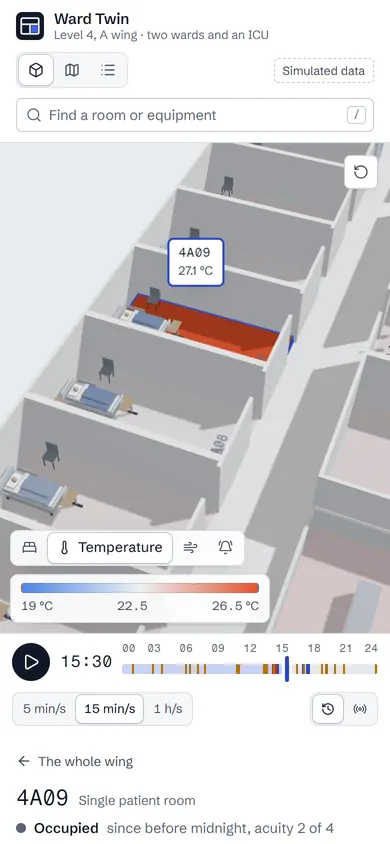
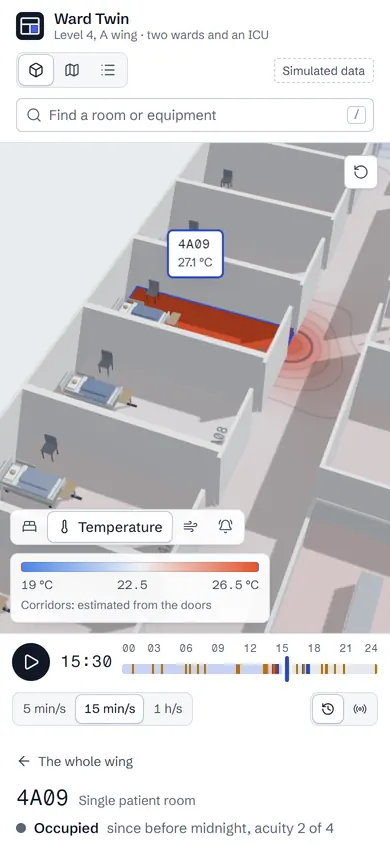
Ward Twin case: the corridor field and the new test counts
- The decision and the performance story say what temperature and air
  now draw: each room its own sensor, and the corridors, which have none,
  estimated in the fragment shader from the doors onto them, at 1 or 2
  fps (ward-twin 86ac619).
- The air tile and the room on a phone are recaptured with the field.
- 51 unit and 14 browser tests; the scene chunk is 215 kB.

diff --git a/index.html b/index.html
@@ -2845,10 +2845,10 @@ clip-path: none !important;
   <dl class="glance"><div><dt>Role</dt><dd>Concept, design and build</dd></div><div><dt>Focus</dt><dd>A 3D model that answers one operational question at a time, and stays fast at the scale of a hospital</dd></div><div><dt>Built with</dt><dd>React Three Fiber, three.js and TypeScript; compressed glTF; the day simulated in a Web Worker; wayfinding on a graph of the building</dd></div><div><dt>Live demo</dt><dd><a href="https://imsemoo.github.io/ward-twin/" target="_blank" rel="noopener">imsemoo.github.io/ward-twin</a></dd></div></dl>
   <figure class="film" data-film data-reveal-ev><div class="film__frame"><video class="film__video" src="img/work/ev/wardtwin-film-720.mp4" poster="img/work/ev/wardtwin-film-still.webp" width="1280" height="720" controls muted playsinline preload="none" aria-label="Ward Twin demo film"></video></div><figcaption class="ev__cap">A 40-second recording of the live demo, captured frame by frame on a fixed clock: the opening shot, the four layers, room 4A09 heating past its limit through the afternoon, the walk to the nearest free pump in the next wing, the whole hospital drawn apart, and level 4 in 3D and as a plan.</figcaption></figure>
   <div class="evidence evidence--p2" style="--phones: 2"><figure class="ev ev--wide" data-reveal-ev><div class="shot "><div class="shot__bar"><span class="shot__cap">imsemoo.github.io/ward-twin/?select=4A09&amp;t=21:00</span></div><img class="shot__img" src="img/work/ev/wardtwin-route-1400.webp" srcset="img/work/ev/wardtwin-route-800.webp 800w, img/work/ev/wardtwin-route-1400.webp 1400w" sizes="(min-width: 900px) 58vw, 94vw" width="1400" height="875" alt="Level 4 in 3D with a dashed blue line from room 4A09 along the corridor and across a glazed link to a pump in the next wing, tagged 1 min away, beside the room&#x27;s panel." loading="lazy" decoding="async"></div><figcaption class="ev__cap">At 21:00 no pump is free in 4A09&#x27;s own wing. The nearest is in the next one, and the walk is drawn down the corridor and across the glazed link: 87 m, about a minute.</figcaption></figure><figure class="ev ev--phone" data-reveal-ev><div class="phone"><img src="img/work/ev/wardtwin-home-phone-600.webp" srcset="img/work/ev/wardtwin-home-phone-390.webp 390w, img/work/ev/wardtwin-home-phone-600.webp 600w" sizes="(min-width: 900px) 15vw, 44vw" width="600" height="1298" alt="Wing 4A on a phone, turned lengthwise, above the layer switch, its key and the timeline." loading="lazy" decoding="async"></div><figcaption class="ev__cap">At phone width a wing turns lengthwise to fit the screen, above the layer key and the timeline.</figcaption></figure><figure class="ev ev--phone" data-reveal-ev><div class="phone"><img src="img/work/ev/wardtwin-room-phone-600.webp" srcset="img/work/ev/wardtwin-room-phone-390.webp 390w, img/work/ev/wardtwin-room-phone-600.webp 600w" sizes="(min-width: 900px) 15vw, 44vw" width="600" height="1298" alt="Room 4A09 close up on a phone, its floor red in the temperature layer, with a tag reading its temperature." loading="lazy" decoding="async"></div><figcaption class="ev__cap">Room 4A09 at 15:30, in the temperature layer. The camera flew to it from a link that names the room, the layer and the time.</figcaption></figure></div>
-  <p class="decision"><strong class="decision__lead">The decision.</strong> The floors carry the data, one question at a time. A layer colours every room, in one wing or across all six levels, by bed state, temperature, air or call-light wait, with its key beside it, on a white model that never competes with the colour. Picking a room flies the camera to it and opens that room&#x27;s day beside the model.</p>
-  <section class="system" aria-labelledby="case-wardtwin-system"><h4 id="case-wardtwin-system">The system: an architect&#x27;s white model, data on the floors</h4><ul class="swatches"><li class="sw"><span class="sw__chip" style="--c:#E8ECF0" aria-hidden="true"></span><span class="sw__name">Ground</span><code>#E8ECF0</code><span class="sw__role">The drafting ground under the model</span></li><li class="sw"><span class="sw__chip" style="--c:#FBFBFC" aria-hidden="true"></span><span class="sw__name">Model</span><code>#FBFBFC</code><span class="sw__role">Walls, beds and fixtures, the white model</span></li><li class="sw"><span class="sw__chip" style="--c:#2A3441" aria-hidden="true"></span><span class="sw__name">Ink</span><code>#2A3441</code><span class="sw__role">The walls in plan view, cut and inked</span></li><li class="sw"><span class="sw__chip" style="--c:#2946C7" aria-hidden="true"></span><span class="sw__name">Blue line</span><code>#2946C7</code><span class="sw__role">Selection, focus and actions, 7.5:1 on white</span></li><li class="sw"><span class="sw__chip" style="--c:#157A4C" aria-hidden="true"></span><span class="sw__name">Ready</span><code>#157A4C</code><span class="sw__role">A clean bed; its soft tint fills the floor</span></li><li class="sw"><span class="sw__chip" style="--c:#B86E00" aria-hidden="true"></span><span class="sw__name">Waiting</span><code>#B86E00</code><span class="sw__role">A bed waiting for cleaning, and warnings</span></li></ul><p class="system__note">Schibsted Grotesk carries the interface and Fragment Mono the room numbers, times and readings, with tabular figures. Every status comes in two strengths: a strong one for chips and icons in the panel, a soft one for the floors, so the model stays white and colour always means data. Temperature and air get their own ramps, with the key beside the model.</p><figure class="ev ev--grid" data-reveal-ev><ul class="vgrid" style="--n: 4"><li class="vgrid__item"><img src="img/work/ev/wardtwin-plan-600.webp" width="600" height="375" alt="A wing as a plan: walls cut and inked, rooms coloured by bed state." loading="lazy" decoding="async"><span class="vgrid__label">Plan view</span></li><li class="vgrid__item"><img src="img/work/ev/wardtwin-air-600.webp" width="600" height="375" alt="The plan coloured by CO2 at 18:00, the family lounge darkest, its alert in the side panel." loading="lazy" decoding="async"><span class="vgrid__label">Air at 18:00</span></li><li class="vgrid__item"><img src="img/work/ev/wardtwin-level-600.webp" width="600" height="375" alt="Level 4 in 3D: six wings on one plate, joined by glazed links, each named." loading="lazy" decoding="async"><span class="vgrid__label">Level 4</span></li><li class="vgrid__item"><img src="img/work/ev/wardtwin-list-600.webp" width="600" height="375" alt="Every wing in a table: beds occupied, ready, being cleaned, waiting and out of service, and its open alerts." loading="lazy" decoding="async"><span class="vgrid__label">List view</span></li></ul><figcaption class="ev__cap">Four views of the same day: a wing as a plan drawing, the air layer at 18:00, level 4 with its six wings, and every wing of the hospital in a table.</figcaption></figure></section>
-  <div class="story"><div class="story__blocks"><section class="story__block"><h4>A day that behaves like a ward</h4><p>The simulation is written to tell a ward&#x27;s afternoon: discharges cluster late in the morning and admissions arrive through the evening, so beds sit dirty, then in cleaning, then ready and waiting. Rooms warm through HVAC faults, the family lounge gets stuffy in visiting hours, pumps run low until someone plugs them in, and call lights wait longer at shift change. Each of the 36 wings runs from its own seed, so every visitor replays the same day and one wing&#x27;s day never shifts another&#x27;s; wing 4A, where the demo opens, keeps a scripted story on top. It all runs in a Web Worker, and the wing on show arrives first, in under 30 ms, with the rest of the hospital under a second behind.</p></section><section class="story__block"><h4>From one wing to the whole hospital</h4><p>The model works at three scales. A wing is two wards and an ICU, close enough to read a bed. A level puts its six wings on one plate, joined by glazed links. All levels draws the six floors apart, an exploded section of the building, each coloured by the same layer, so a warm room shows from across the hospital. A map of the building sits beside the model, every wing shaded by how full it is and marked where something critical is open; a click on a wing flies into it, and a trail above the panel leads back up. The camera fits each scale by projecting its corners through a trial camera, so the model always clears the overlays, and the address bar keeps the scale, view, layer, time and selection, so every view is a link.</p></section><section class="story__block"><h4>The drawing and the model are one scene</h4><p>Plan view does not swap in a flat map. Every wall sinks to a section cut 15 cm above the floor and darkens to ink, so the model turns into the architect&#x27;s drawing and back, for a wing or a whole level, and the first load plays the same move the other way: the plan rises into the building. List view carries the same data as a table, for keyboards, screen readers and anyone who wants to scan.</p></section><section class="story__block"><h4>The nearest free pump, and the walk to it</h4><p>From any bed, Nearest free finds the infusion pump, wheelchair or bladder scanner, or from an ICU bay the ventilator, that is quickest to reach on foot anywhere in the hospital. The walk runs on a graph of the building, 4,296 points: every room and its door, both corridors of each wing, the crossing through the core, the glazed links and the lifts. Costs are seconds, 1.2 m/s on foot and a lift as a wait plus a few seconds a floor. The question has many possible answers, so one Dijkstra search from the room reaches them all, where A* would need a search for each pump; a search takes 2 to 11 ms. The walk is drawn over the walls, the view widens to the level or the building to hold it, and the search loads only when someone first asks, as its own 1.4 kB file.</p></section><section class="story__block"><h4>Alerts that know only the present</h4><p>An alert keeps only what was known when it opened, and it is worded at the minute on the timeline: pressed at 14:21, nine minutes without an answer. Scrub to any time and nothing gives away what happens next. Severity is read at that minute too, so a warming room turns critical only once it passes 26.5 °C.</p></section><section class="story__block"><h4>Live, from a stream of events</h4><p>Live mode builds the hospital from events as they arrive instead of from a recorded day. A mock server in a Web Worker plays the day over the JSON protocol a real integration server would use, a simulated minute each second, and the page folds each event into the same day the views already read, so none of them had to change. Sequence numbers keep the stream whole: when the connection drops, the page says the floor is stale, waits longer before each retry, and asks for only the events it missed, from the last 2,000 the server keeps. A test replays the whole day as events and checks that it reads exactly like the recording at every five-minute reading.</p></section><section class="story__block"><h4>Fast because it draws less</h4><p>The canvas renders only when something changes, so an idle hospital costs no GPU time. Every wing is built to one plan, so each part of the shell is one instanced mesh for all 36 wings, and the 1,368 room floors are one more, which is also the pick target. Only what is in view is packed into what the GPU draws: the first build of the hospital hid the other wings but still sent them to the GPU, 207,000 triangles for one wing, and packing brought that back to 15,000. Beds, patients, bedside furniture and equipment are glTF models, 17,208 triangles compressed to 129 KB, drawn as instances with a shader that tints only the parts that carry state, such as a blanket or a pump&#x27;s housing. Each switches to a plain proxy by its distance from where the camera looks, and to a box in the whole-hospital view, which draws in 33 draw calls, fewer than one wing up close.</p></section><section class="story__block"><h4>It adapts, recovers and is tested</h4><p>Quality adapts to the device: four levels, from ambient occlusion with SMAA down to plain rendering at a lower pixel ratio, stepped by the frame rate measured while the scene moves. If the graphics driver resets, the view says it has paused and rebuilds itself. Every push runs 49 unit tests, 13 browser tests with real WebGL at desktop and phone size, lint, types and a size budget for each bundle, and a failure stops the deploy.</p></section></div></div>
-  <div class="outcome outcome--two"><div class="outcome__result"><h4>Result</h4><ul><li>A concept: the hospital, the patients and the readings are simulated, and the page says so on every view.</li><li>Live on GitHub Pages, with the code public. The interface loads first at under 90 kB gzipped, the scene and three.js follow at 213 kB and 99 kB, then the models at 129 KB. Ambient occlusion and SMAA load last, at 157 kB, and only when the quality level uses them; the wayfinding search loads on first use, at 1.4 kB.</li><li>Measured in September 2026 on an integrated Intel GPU at 1280 by 800, orbiting with ambient occlusion and SMAA, over three runs: the whole hospital at 72 to 90 fps in 33 draw calls, a level at 74 to 90 fps, one wing at 69 to 81 fps in 43, and close to a room at 61 to 77 fps.</li></ul></div><div class="outcome__reflect"><h4>What I would do differently</h4><p>Test on a range of real devices. The frame rates here come from one laptop and emulated phones, and a low-end Android phone is the test it still needs.</p></div></div>
+  <p class="decision"><strong class="decision__lead">The decision.</strong> The floors carry the data, one question at a time. A layer colours every room, in one wing or across all six levels, by bed state, temperature, air or call-light wait, with its key beside it, on a white model that never competes with the colour. In temperature and air a room shows its own sensor and only the corridors, which have none, are estimated, from the doors that open onto them. Picking a room flies the camera to it and opens that room&#x27;s day beside the model.</p>
+  <section class="system" aria-labelledby="case-wardtwin-system"><h4 id="case-wardtwin-system">The system: an architect&#x27;s white model, data on the floors</h4><ul class="swatches"><li class="sw"><span class="sw__chip" style="--c:#E8ECF0" aria-hidden="true"></span><span class="sw__name">Ground</span><code>#E8ECF0</code><span class="sw__role">The drafting ground under the model</span></li><li class="sw"><span class="sw__chip" style="--c:#FBFBFC" aria-hidden="true"></span><span class="sw__name">Model</span><code>#FBFBFC</code><span class="sw__role">Walls, beds and fixtures, the white model</span></li><li class="sw"><span class="sw__chip" style="--c:#2A3441" aria-hidden="true"></span><span class="sw__name">Ink</span><code>#2A3441</code><span class="sw__role">The walls in plan view, cut and inked</span></li><li class="sw"><span class="sw__chip" style="--c:#2946C7" aria-hidden="true"></span><span class="sw__name">Blue line</span><code>#2946C7</code><span class="sw__role">Selection, focus and actions, 7.5:1 on white</span></li><li class="sw"><span class="sw__chip" style="--c:#157A4C" aria-hidden="true"></span><span class="sw__name">Ready</span><code>#157A4C</code><span class="sw__role">A clean bed; its soft tint fills the floor</span></li><li class="sw"><span class="sw__chip" style="--c:#B86E00" aria-hidden="true"></span><span class="sw__name">Waiting</span><code>#B86E00</code><span class="sw__role">A bed waiting for cleaning, and warnings</span></li></ul><p class="system__note">Schibsted Grotesk carries the interface and Fragment Mono the room numbers, times and readings, with tabular figures. Every status comes in two strengths: a strong one for chips and icons in the panel, a soft one for the floors, so the model stays white and colour always means data. Temperature and air get their own ramps, with the key beside the model.</p><figure class="ev ev--grid" data-reveal-ev><ul class="vgrid" style="--n: 4"><li class="vgrid__item"><img src="img/work/ev/wardtwin-plan-600.webp" width="600" height="375" alt="A wing as a plan: walls cut and inked, rooms coloured by bed state." loading="lazy" decoding="async"><span class="vgrid__label">Plan view</span></li><li class="vgrid__item"><img src="img/work/ev/wardtwin-air-600.webp" width="600" height="375" alt="The plan coloured by CO2 at 18:00, the family lounge darkest and its stale air estimated spilling into the corridor outside its door, its alert in the side panel." loading="lazy" decoding="async"><span class="vgrid__label">Air at 18:00</span></li><li class="vgrid__item"><img src="img/work/ev/wardtwin-level-600.webp" width="600" height="375" alt="Level 4 in 3D: six wings on one plate, joined by glazed links, each named." loading="lazy" decoding="async"><span class="vgrid__label">Level 4</span></li><li class="vgrid__item"><img src="img/work/ev/wardtwin-list-600.webp" width="600" height="375" alt="Every wing in a table: beds occupied, ready, being cleaned, waiting and out of service, and its open alerts." loading="lazy" decoding="async"><span class="vgrid__label">List view</span></li></ul><figcaption class="ev__cap">Four views of the same day: a wing as a plan drawing, the air layer at 18:00, level 4 with its six wings, and every wing of the hospital in a table.</figcaption></figure></section>
+  <div class="story"><div class="story__blocks"><section class="story__block"><h4>A day that behaves like a ward</h4><p>The simulation is written to tell a ward&#x27;s afternoon: discharges cluster late in the morning and admissions arrive through the evening, so beds sit dirty, then in cleaning, then ready and waiting. Rooms warm through HVAC faults, the family lounge gets stuffy in visiting hours, pumps run low until someone plugs them in, and call lights wait longer at shift change. Each of the 36 wings runs from its own seed, so every visitor replays the same day and one wing&#x27;s day never shifts another&#x27;s; wing 4A, where the demo opens, keeps a scripted story on top. It all runs in a Web Worker, and the wing on show arrives first, in under 30 ms, with the rest of the hospital under a second behind.</p></section><section class="story__block"><h4>From one wing to the whole hospital</h4><p>The model works at three scales. A wing is two wards and an ICU, close enough to read a bed. A level puts its six wings on one plate, joined by glazed links. All levels draws the six floors apart, an exploded section of the building, each coloured by the same layer, so a warm room shows from across the hospital. A map of the building sits beside the model, every wing shaded by how full it is and marked where something critical is open; a click on a wing flies into it, and a trail above the panel leads back up. The camera fits each scale by projecting its corners through a trial camera, so the model always clears the overlays, and the address bar keeps the scale, view, layer, time and selection, so every view is a link.</p></section><section class="story__block"><h4>The drawing and the model are one scene</h4><p>Plan view does not swap in a flat map. Every wall sinks to a section cut 15 cm above the floor and darkens to ink, so the model turns into the architect&#x27;s drawing and back, for a wing or a whole level, and the first load plays the same move the other way: the plan rises into the building. List view carries the same data as a table, for keyboards, screen readers and anyone who wants to scan.</p></section><section class="story__block"><h4>The nearest free pump, and the walk to it</h4><p>From any bed, Nearest free finds the infusion pump, wheelchair or bladder scanner, or from an ICU bay the ventilator, that is quickest to reach on foot anywhere in the hospital. The walk runs on a graph of the building, 4,296 points: every room and its door, both corridors of each wing, the crossing through the core, the glazed links and the lifts. Costs are seconds, 1.2 m/s on foot and a lift as a wait plus a few seconds a floor. The question has many possible answers, so one Dijkstra search from the room reaches them all, where A* would need a search for each pump; a search takes 2 to 11 ms. The walk is drawn over the walls, the view widens to the level or the building to hold it, and the search loads only when someone first asks, as its own 1.4 kB file.</p></section><section class="story__block"><h4>Alerts that know only the present</h4><p>An alert keeps only what was known when it opened, and it is worded at the minute on the timeline: pressed at 14:21, nine minutes without an answer. Scrub to any time and nothing gives away what happens next. Severity is read at that minute too, so a warming room turns critical only once it passes 26.5 °C.</p></section><section class="story__block"><h4>Live, from a stream of events</h4><p>Live mode builds the hospital from events as they arrive instead of from a recorded day. A mock server in a Web Worker plays the day over the JSON protocol a real integration server would use, a simulated minute each second, and the page folds each event into the same day the views already read, so none of them had to change. Sequence numbers keep the stream whole: when the connection drops, the page says the floor is stale, waits longer before each retry, and asks for only the events it missed, from the last 2,000 the server keeps. A test replays the whole day as events and checks that it reads exactly like the recording at every five-minute reading.</p></section><section class="story__block"><h4>Fast because it draws less</h4><p>The canvas renders only when something changes, so an idle hospital costs no GPU time. Every wing is built to one plan, so each part of the shell is one instanced mesh for all 36 wings, and the 1,368 room floors are one more, which is also the pick target. Only what is in view is packed into what the GPU draws: the first build of the hospital hid the other wings but still sent them to the GPU, 207,000 triangles for one wing, and packing brought that back to 15,000. Beds, patients, bedside furniture and equipment are glTF models, 17,208 triangles compressed to 129 KB, drawn as instances with a shader that tints only the parts that carry state, such as a blanket or a pump&#x27;s housing. Each switches to a plain proxy by its distance from where the camera looks, and to a box in the whole-hospital view, which draws in 33 draw calls, fewer than one wing up close. The corridors&#x27; temperature and air are estimated in the fragment shader, from each wing&#x27;s 38 doors weighted by how wide they are, with isolines and the alert limit drawn from screen-space derivatives; switching that layer on costs 1 or 2 fps.</p></section><section class="story__block"><h4>It adapts, recovers and is tested</h4><p>Quality adapts to the device: four levels, from ambient occlusion with SMAA down to plain rendering at a lower pixel ratio, stepped by the frame rate measured while the scene moves. If the graphics driver resets, the view says it has paused and rebuilds itself. Every push runs 51 unit tests, 14 browser tests with real WebGL at desktop and phone size, lint, types and a size budget for each bundle, and a failure stops the deploy.</p></section></div></div>
+  <div class="outcome outcome--two"><div class="outcome__result"><h4>Result</h4><ul><li>A concept: the hospital, the patients and the readings are simulated, and the page says so on every view.</li><li>Live on GitHub Pages, with the code public. The interface loads first at under 90 kB gzipped, the scene and three.js follow at 215 kB and 99 kB, then the models at 129 KB. Ambient occlusion and SMAA load last, at 157 kB, and only when the quality level uses them; the wayfinding search loads on first use, at 1.4 kB.</li><li>Measured in September 2026 on an integrated Intel GPU at 1280 by 800, orbiting with ambient occlusion and SMAA, over three runs: the whole hospital at 72 to 90 fps in 33 draw calls, a level at 74 to 90 fps, one wing at 69 to 81 fps in 43, and close to a room at 61 to 77 fps.</li></ul></div><div class="outcome__reflect"><h4>What I would do differently</h4><p>Test on a range of real devices. The frame rates here come from one laptop and emulated phones, and a low-end Android phone is the test it still needs.</p></div></div>
   <p class="feature__links"><a class="btn btn--ghost" href="https://imsemoo.github.io/ward-twin/" target="_blank" rel="noopener">Open the live demo <svg class="icon" aria-hidden="true" focusable="false"><use href="#i-arrow-up-right"/></svg></a><a class="btn btn--ghost" href="https://imsemoo.github.io/ward-twin/?at=hospital" target="_blank" rel="noopener">Open the whole hospital <svg class="icon" aria-hidden="true" focusable="false"><use href="#i-arrow-up-right"/></svg></a><a class="btn btn--ghost" href="https://github.com/imsemoo/ward-twin" target="_blank" rel="noopener">Code on GitHub <svg class="icon" aria-hidden="true" focusable="false"><use href="#i-arrow-up-right"/></svg></a><a class="btn btn--ghost" href="https://github.com/imsemoo/ward-twin/blob/main/docs/live-feed.md" target="_blank" rel="noopener">How the live feed works <svg class="icon" aria-hidden="true" focusable="false"><use href="#i-arrow-up-right"/></svg></a></p>
 </article>
 
